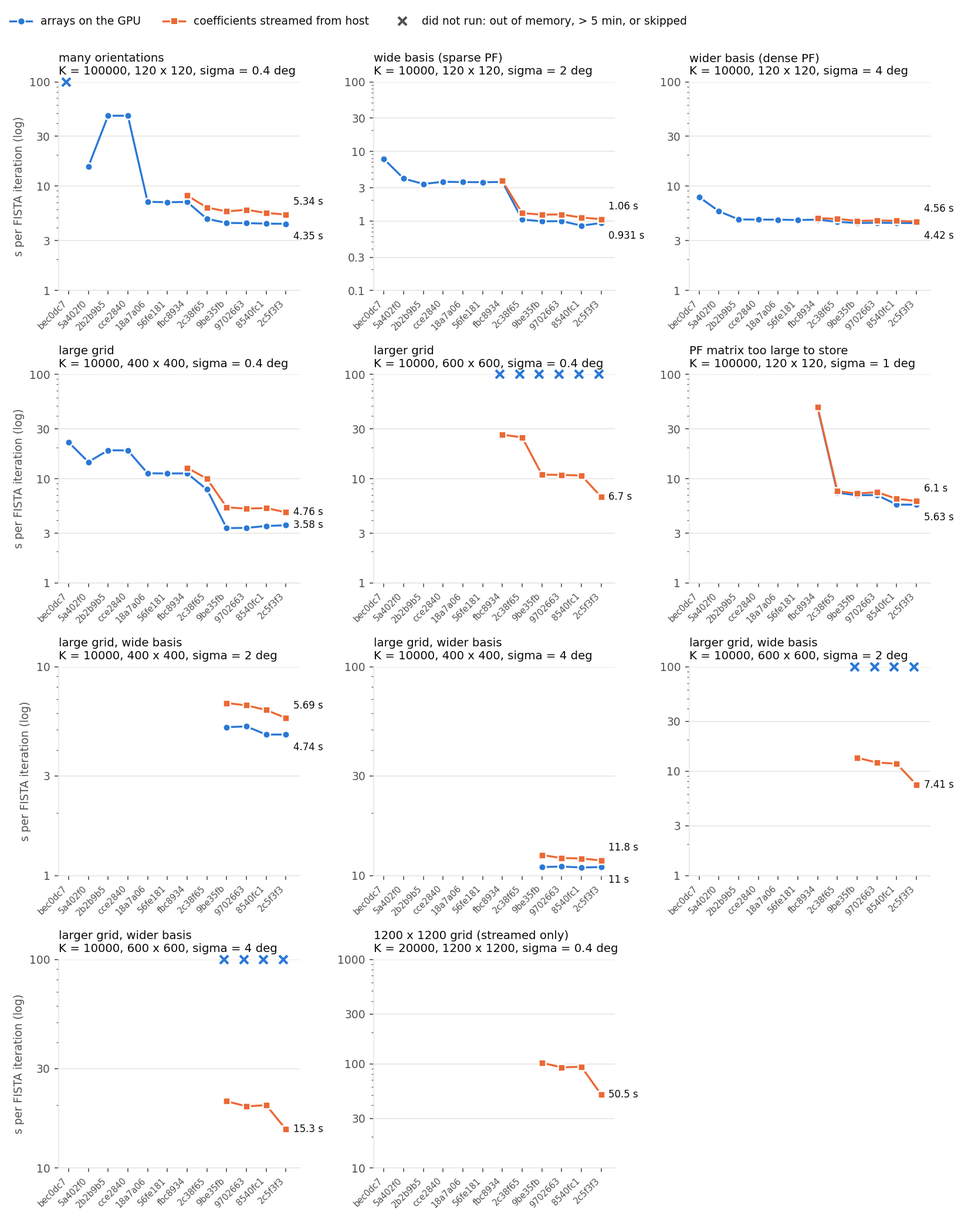
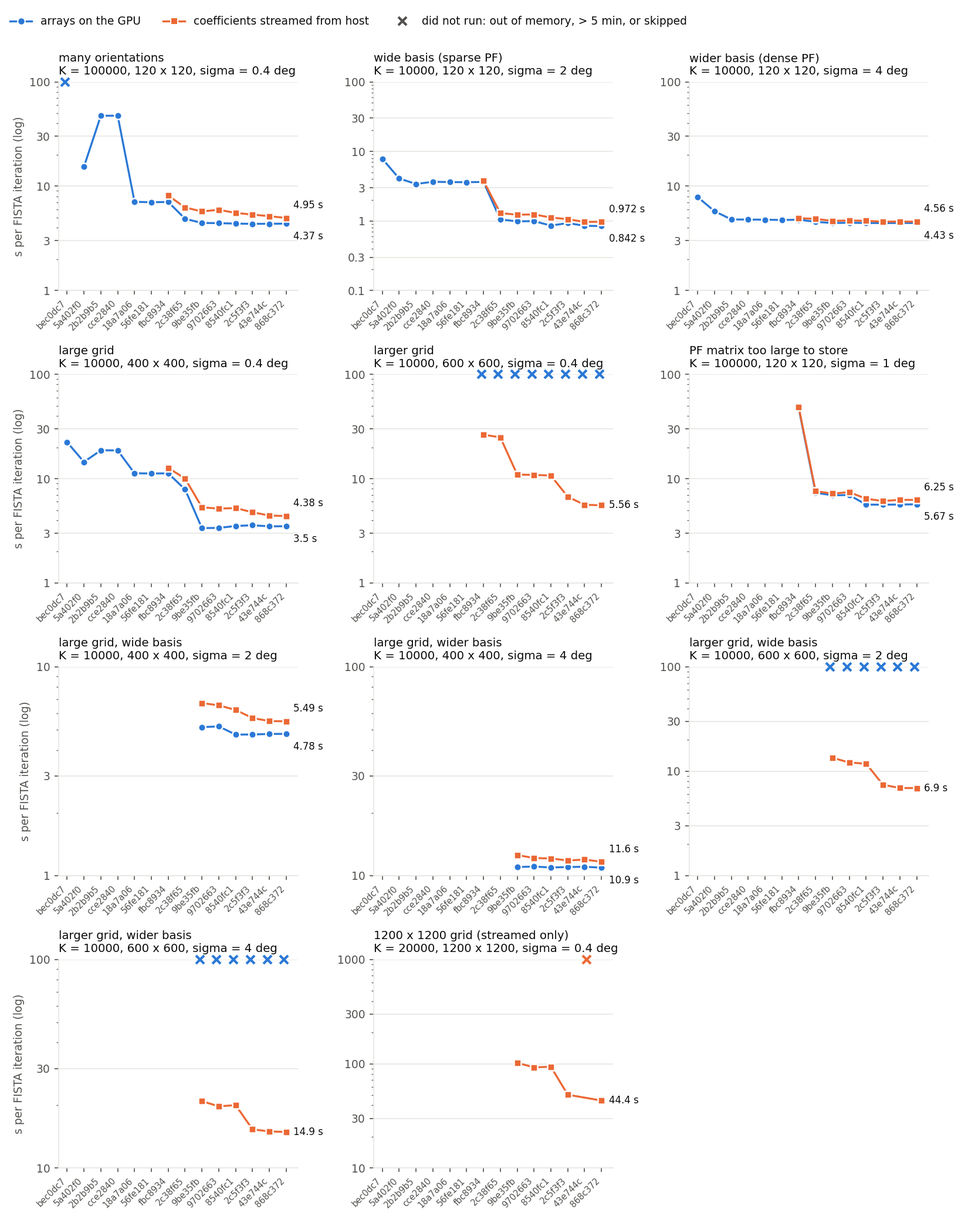
Benchmark results for 43e744c and 868c372 (+ 3e32127 at 1200 x 1200)

diff --git a/benchmarks/report.py b/benchmarks/report.py
@@ -27,6 +27,10 @@ LABELS = {
     "fbc8934": "NumPy API, (K, Ny, Nx) layout",
     "2c38f65": "sparse PF matrix generated directly, faster sparse products, store what fits, "
                "Radon in slices, larger batches",
+    "868c372": "FISTA (GPU arrays and streamed): next forward pass inside the adjoint pass; fused residual/norm/clip; "
+               "PF forward skips empty rows (iterates unchanged)",
+    "43e744c": "streamed FISTA: next forward pass inside the adjoint pass; fused residual/norm/clip; PF forward "
+               "skips empty rows (iterates unchanged)",
     "2c5f3f3": "Fourier-slice projector (projector=\"fft\"), the default above 400 x 400 pixels (results differ by ~1 %)",
     "8540fc1": "defaults: PF Gaussians cut at 3 sigma (was 3.46; results change by ~1 %), parallel random start of "
                "the streamed power iteration",
@@ -38,7 +42,7 @@ LABELS = {
 
 # results of a version listed here count as results of the version it maps to: the same code for
 # what is measured (versions with an identical src/ tree are merged automatically)
-SAME_CODE = {"81d313a": "9be35fb"}  # 81d313a only adds iteration times to the FISTA stats
+SAME_CODE = {"81d313a": "9be35fb", "3e32127": "868c372"}  # 81d313a only adds iteration times to the FISTA stats
 
 SWEEPS = [  # sweep, varied parameter, label, unit
     ("K", "K", "orientations K", ""),

diff --git a/benchmarks/RESULTS.md b/benchmarks/RESULTS.md
@@ -10,6 +10,8 @@ Speed and peak memory of diffractom's texture-tomography reconstruction across v
 
 | version | date | what changed |
 |---|---|---|
+| `868c372` | 2026-10-02 | FISTA (GPU arrays and streamed): next forward pass inside the adjoint pass; fused residual/norm/clip; PF forward skips empty rows (iterates unchanged) |
+| `43e744c` | 2026-10-02 | streamed FISTA: next forward pass inside the adjoint pass; fused residual/norm/clip; PF forward skips empty rows (iterates unchanged) |
 | `2c5f3f3` | 2026-10-02 | Fourier-slice projector (projector="fft"), the default above 400 x 400 pixels (results differ by ~1 %) |
 | `8540fc1` | 2026-10-02 | defaults: PF Gaussians cut at 3 sigma (was 3.46; results change by ~1 %), parallel random start of the streamed power iteration |
 | `9702663` | 2026-10-02 | streamed power iteration on all cores, streaming buffers kept with the operator; sparse up to 30 % fill when stored (results unchanged) |
@@ -23,47 +25,47 @@ Speed and peak memory of diffractom's texture-tomography reconstruction across v
 | `5a402f0` | 2026-09-28 | sparse PF matrix (`pf_mode="auto"`) |
 | `bec0dc7` | 2026-09-28 | before the speed-ups: dense PF matrix only |
 
-## Newest (`2c5f3f3`) against the version before it (`8540fc1`)
+## Newest (`868c372`) against the version before it (`43e744c`)
 
 Seconds per FISTA iteration, steady state (without the first iteration, which includes the setup) where both versions recorded it (marked s), else the average of the two iterations; speed-up = previous / newest (below 1: slower). Single short runs: differences within about 10 % are noise.
 
 | case | mode | previous | newest | speed-up |
 |---|---|---:|---:|---:|
-| K = 1000, 120 x 120, sigma = 0.4 | gpu | 0.0732 | 0.0732 | 1.00x s |
-| K = 3000, 120 x 120, sigma = 0.4 | gpu | 0.149 | 0.147 | 1.01x s |
-| K = 10000, 64 x 64, sigma = 0.4 | gpu | 0.194 | 0.194 | 1.00x s |
-| K = 10000, 120 x 120, sigma = 0.4 | gpu | 0.449 | 0.447 | 1.00x s |
-| K = 10000, 120 x 120, sigma = 1 | gpu | 0.69 | 0.51 | 1.35x s |
-| K = 10000, 120 x 120, sigma = 2 | gpu | 0.824 | 0.955 | **0.86x s** (slower) |
-| K = 10000, 120 x 120, sigma = 4 | gpu | 4.42 | 4.41 | 1.00x s |
-| K = 10000, 200 x 200, sigma = 0.4 | gpu | 1.04 | 1.04 | 1.00x s |
-| K = 10000, 400 x 400, sigma = 0.4 | gpu | 3.49 | 3.59 | 0.97x s |
-| K = 10000, 400 x 400, sigma = 2 | gpu | 4.73 | 4.74 | 1.00x s |
-| K = 10000, 400 x 400, sigma = 4 | gpu | 11.0 | 11.0 | 1.00x s |
+| K = 1000, 120 x 120, sigma = 0.4 | gpu | 0.0685 | 0.0504 | 1.36x s |
+| K = 3000, 120 x 120, sigma = 0.4 | gpu | 0.143 | 0.105 | 1.37x s |
+| K = 10000, 64 x 64, sigma = 0.4 | gpu | 0.192 | 0.139 | 1.38x s |
+| K = 10000, 120 x 120, sigma = 0.4 | gpu | 0.443 | 0.326 | 1.36x s |
+| K = 10000, 120 x 120, sigma = 1 | gpu | 0.506 | 0.375 | 1.35x s |
+| K = 10000, 120 x 120, sigma = 2 | gpu | 0.829 | 0.6 | 1.38x s |
+| K = 10000, 120 x 120, sigma = 4 | gpu | 4.44 | 3.32 | 1.34x s |
+| K = 10000, 200 x 200, sigma = 0.4 | gpu | 1.03 | 0.755 | 1.36x s |
+| K = 10000, 400 x 400, sigma = 0.4 | gpu | 3.47 | 2.45 | 1.42x s |
+| K = 10000, 400 x 400, sigma = 2 | gpu | 4.77 | 3.45 | 1.38x s |
+| K = 10000, 400 x 400, sigma = 4 | gpu | 11.1 | 8.13 | 1.36x s |
 | K = 10000, 600 x 600, sigma = 0.4 | gpu | *array > largest GPU buffer* | *array > largest GPU buffer* |  |
 | K = 10000, 600 x 600, sigma = 2 | gpu | *array > largest GPU buffer* | *array > largest GPU buffer* |  |
 | K = 10000, 600 x 600, sigma = 4 | gpu | *skipped* | *skipped* |  |
-| K = 30000, 120 x 120, sigma = 0.4 | gpu | 1.31 | 1.31 | 1.00x s |
-| K = 100000, 120 x 120, sigma = 0.4 | gpu | 4.29 | 4.3 | 1.00x s |
-| K = 100000, 120 x 120, sigma = 1 | gpu | 5.57 | 5.57 | 1.00x s |
-| K = 1000, 120 x 120, sigma = 0.4 | stream | 0.0844 | 0.0812 | 1.04x s |
-| K = 3000, 120 x 120, sigma = 0.4 | stream | 0.16 | 0.159 | 1.00x s |
-| K = 10000, 64 x 64, sigma = 0.4 | stream | 0.201 | 0.202 | 1.00x s |
-| K = 10000, 120 x 120, sigma = 0.4 | stream | 0.461 | 0.481 | 0.96x s |
-| K = 10000, 120 x 120, sigma = 1 | stream | 0.525 | 0.523 | 1.00x s |
-| K = 10000, 120 x 120, sigma = 2 | stream | 0.848 | 0.832 | 1.02x s |
-| K = 10000, 120 x 120, sigma = 4 | stream | 4.43 | 4.43 | 1.00x s |
-| K = 10000, 200 x 200, sigma = 0.4 | stream | 1.07 | 1.07 | 1.00x s |
-| K = 10000, 400 x 400, sigma = 0.4 | stream | 3.69 | 3.64 | 1.02x s |
-| K = 10000, 400 x 400, sigma = 2 | stream | 4.6 | 4.6 | 1.00x s |
-| K = 10000, 400 x 400, sigma = 4 | stream | 11.1 | 11.0 | 1.00x s |
-| K = 10000, 600 x 600, sigma = 0.4 | stream | 8.14 | 5.17 | 1.57x s |
-| K = 10000, 600 x 600, sigma = 2 | stream | 9.51 | 5.85 | 1.62x s |
-| K = 10000, 600 x 600, sigma = 4 | stream | 17.7 | 13.7 | 1.29x s |
-| K = 20000, 1200 x 1200, sigma = 0.4 | stream | 77.6 | 33.5 | 2.31x s |
-| K = 30000, 120 x 120, sigma = 0.4 | stream | 1.33 | 1.49 | **0.89x s** (slower) |
-| K = 100000, 120 x 120, sigma = 0.4 | stream | 4.43 | 4.35 | 1.02x s |
-| K = 100000, 120 x 120, sigma = 1 | stream | 5.47 | 5.43 | 1.01x s |
+| K = 30000, 120 x 120, sigma = 0.4 | gpu | 1.31 | 0.961 | 1.36x s |
+| K = 100000, 120 x 120, sigma = 0.4 | gpu | 4.3 | 3.14 | 1.37x s |
+| K = 100000, 120 x 120, sigma = 1 | gpu | 5.6 | 4.03 | 1.39x s |
+| K = 1000, 120 x 120, sigma = 0.4 | stream | 0.0583 | 0.0579 | 1.01x s |
+| K = 3000, 120 x 120, sigma = 0.4 | stream | 0.115 | 0.114 | 1.00x s |
+| K = 10000, 64 x 64, sigma = 0.4 | stream | 0.144 | 0.145 | 1.00x s |
+| K = 10000, 120 x 120, sigma = 0.4 | stream | 0.337 | 0.337 | 1.00x s |
+| K = 10000, 120 x 120, sigma = 1 | stream | 0.386 | 0.385 | 1.00x s |
+| K = 10000, 120 x 120, sigma = 2 | stream | 0.608 | 0.61 | 1.00x s |
+| K = 10000, 120 x 120, sigma = 4 | stream | 3.36 | 3.34 | 1.01x s |
+| K = 10000, 200 x 200, sigma = 0.4 | stream | 0.779 | 0.779 | 1.00x s |
+| K = 10000, 400 x 400, sigma = 0.4 | stream | 2.49 | 2.49 | 1.00x s |
+| K = 10000, 400 x 400, sigma = 2 | stream | 3.4 | 3.39 | 1.00x s |
+| K = 10000, 400 x 400, sigma = 4 | stream | 8.28 | 8.24 | 1.01x s |
+| K = 10000, 600 x 600, sigma = 0.4 | stream | 3.49 | 3.42 | 1.02x s |
+| K = 10000, 600 x 600, sigma = 2 | stream | 4.45 | 4.44 | 1.00x s |
+| K = 10000, 600 x 600, sigma = 4 | stream | 10.6 | 10.5 | 1.01x s |
+| K = 20000, 1200 x 1200, sigma = 0.4 | stream | *out of memory* | 44.4 |  |
+| K = 30000, 120 x 120, sigma = 0.4 | stream | 0.977 | 0.974 | 1.00x s |
+| K = 100000, 120 x 120, sigma = 0.4 | stream | 3.18 | 3.18 | 1.00x s |
+| K = 100000, 120 x 120, sigma = 1 | stream | 3.9 | 3.89 | 1.00x s |
 
 ## Every version on the base case
 
@@ -191,6 +193,69 @@ The time per iteration above includes a one-time setup in the first of the two F
 | `2c5f3f3` | K = 10000, 600 x 600, sigma = 2 | stream | 10.4 | 5.85 |
 | `2c5f3f3` | K = 10000, 600 x 600, sigma = 4 | stream | 18.4 | 13.7 |
 | `2c5f3f3` | K = 20000, 1200 x 1200, sigma = 0.4 | stream | 67.1 | 33.5 |
+| `43e744c` | K = 10000, 64 x 64, sigma = 0.4 | gpu | 0.195 | 0.192 |
+| `43e744c` | K = 10000, 64 x 64, sigma = 0.4 | stream | 0.462 | 0.144 |
+| `43e744c` | K = 1000, 120 x 120, sigma = 0.4 | gpu | 0.0714 | 0.0685 |
+| `43e744c` | K = 1000, 120 x 120, sigma = 0.4 | stream | 0.271 | 0.0583 |
+| `43e744c` | K = 3000, 120 x 120, sigma = 0.4 | gpu | 0.146 | 0.143 |
+| `43e744c` | K = 3000, 120 x 120, sigma = 0.4 | stream | 0.508 | 0.115 |
+| `43e744c` | K = 10000, 120 x 120, sigma = 0.4 | gpu | 0.45 | 0.443 |
+| `43e744c` | K = 10000, 120 x 120, sigma = 0.4 | stream | 1.04 | 0.337 |
+| `43e744c` | K = 10000, 120 x 120, sigma = 1 | gpu | 0.511 | 0.506 |
+| `43e744c` | K = 10000, 120 x 120, sigma = 1 | stream | 1.16 | 0.386 |
+| `43e744c` | K = 10000, 120 x 120, sigma = 2 | gpu | 0.829 | 0.829 |
+| `43e744c` | K = 10000, 120 x 120, sigma = 2 | stream | 1.61 | 0.608 |
+| `43e744c` | K = 10000, 120 x 120, sigma = 4 | gpu | 4.37 | 4.44 |
+| `43e744c` | K = 10000, 120 x 120, sigma = 4 | stream | 6.94 | 3.36 |
+| `43e744c` | K = 30000, 120 x 120, sigma = 0.4 | gpu | 1.33 | 1.31 |
+| `43e744c` | K = 30000, 120 x 120, sigma = 0.4 | stream | 2.98 | 0.977 |
+| `43e744c` | K = 100000, 120 x 120, sigma = 0.4 | gpu | 4.33 | 4.3 |
+| `43e744c` | K = 100000, 120 x 120, sigma = 0.4 | stream | 8.88 | 3.18 |
+| `43e744c` | K = 100000, 120 x 120, sigma = 1 | gpu | 5.6 | 5.6 |
+| `43e744c` | K = 100000, 120 x 120, sigma = 1 | stream | 10.8 | 3.9 |
+| `43e744c` | K = 10000, 200 x 200, sigma = 0.4 | gpu | 1.03 | 1.03 |
+| `43e744c` | K = 10000, 200 x 200, sigma = 0.4 | stream | 2.47 | 0.779 |
+| `43e744c` | K = 10000, 400 x 400, sigma = 0.4 | gpu | 3.47 | 3.47 |
+| `43e744c` | K = 10000, 400 x 400, sigma = 0.4 | stream | 8.21 | 2.49 |
+| `43e744c` | K = 10000, 400 x 400, sigma = 2 | gpu | 4.73 | 4.77 |
+| `43e744c` | K = 10000, 400 x 400, sigma = 2 | stream | 9.6 | 3.4 |
+| `43e744c` | K = 10000, 400 x 400, sigma = 4 | gpu | 10.9 | 11.1 |
+| `43e744c` | K = 10000, 400 x 400, sigma = 4 | stream | 19.1 | 8.28 |
+| `43e744c` | K = 10000, 600 x 600, sigma = 0.4 | stream | 9.76 | 3.49 |
+| `43e744c` | K = 10000, 600 x 600, sigma = 2 | stream | 11.7 | 4.45 |
+| `43e744c` | K = 10000, 600 x 600, sigma = 4 | stream | 23.7 | 10.6 |
+| `868c372` | K = 10000, 64 x 64, sigma = 0.4 | gpu | 0.3 | 0.139 |
+| `868c372` | K = 10000, 64 x 64, sigma = 0.4 | stream | 0.464 | 0.145 |
+| `868c372` | K = 1000, 120 x 120, sigma = 0.4 | gpu | 0.107 | 0.0504 |
+| `868c372` | K = 1000, 120 x 120, sigma = 0.4 | stream | 0.273 | 0.0579 |
+| `868c372` | K = 3000, 120 x 120, sigma = 0.4 | gpu | 0.224 | 0.105 |
+| `868c372` | K = 3000, 120 x 120, sigma = 0.4 | stream | 0.443 | 0.114 |
+| `868c372` | K = 10000, 120 x 120, sigma = 0.4 | gpu | 0.69 | 0.326 |
+| `868c372` | K = 10000, 120 x 120, sigma = 0.4 | stream | 1.07 | 0.337 |
+| `868c372` | K = 10000, 120 x 120, sigma = 1 | gpu | 0.779 | 0.375 |
+| `868c372` | K = 10000, 120 x 120, sigma = 1 | stream | 1.15 | 0.385 |
+| `868c372` | K = 10000, 120 x 120, sigma = 2 | gpu | 1.28 | 0.6 |
+| `868c372` | K = 10000, 120 x 120, sigma = 2 | stream | 1.63 | 0.61 |
+| `868c372` | K = 10000, 120 x 120, sigma = 4 | gpu | 6.58 | 3.32 |
+| `868c372` | K = 10000, 120 x 120, sigma = 4 | stream | 6.92 | 3.34 |
+| `868c372` | K = 30000, 120 x 120, sigma = 0.4 | gpu | 2.05 | 0.961 |
+| `868c372` | K = 30000, 120 x 120, sigma = 0.4 | stream | 2.64 | 0.974 |
+| `868c372` | K = 100000, 120 x 120, sigma = 0.4 | gpu | 6.71 | 3.14 |
+| `868c372` | K = 100000, 120 x 120, sigma = 0.4 | stream | 8.27 | 3.18 |
+| `868c372` | K = 100000, 120 x 120, sigma = 1 | gpu | 8.8 | 4.03 |
+| `868c372` | K = 100000, 120 x 120, sigma = 1 | stream | 10.7 | 3.89 |
+| `868c372` | K = 10000, 200 x 200, sigma = 0.4 | gpu | 1.59 | 0.755 |
+| `868c372` | K = 10000, 200 x 200, sigma = 0.4 | stream | 2.46 | 0.779 |
+| `868c372` | K = 10000, 400 x 400, sigma = 0.4 | gpu | 5.53 | 2.45 |
+| `868c372` | K = 10000, 400 x 400, sigma = 0.4 | stream | 8.05 | 2.49 |
+| `868c372` | K = 10000, 400 x 400, sigma = 2 | gpu | 7.36 | 3.45 |
+| `868c372` | K = 10000, 400 x 400, sigma = 2 | stream | 9.59 | 3.39 |
+| `868c372` | K = 10000, 400 x 400, sigma = 4 | gpu | 16.4 | 8.13 |
+| `868c372` | K = 10000, 400 x 400, sigma = 4 | stream | 18.4 | 8.24 |
+| `868c372` | K = 10000, 600 x 600, sigma = 0.4 | stream | 9.72 | 3.42 |
+| `868c372` | K = 10000, 600 x 600, sigma = 2 | stream | 11.7 | 4.44 |
+| `868c372` | K = 10000, 600 x 600, sigma = 4 | stream | 23.6 | 10.5 |
+| `868c372` | K = 20000, 1200 x 1200, sigma = 0.4 | stream | 55.9 | 32.7 |
 
 ## Arrays on the GPU
 
@@ -205,11 +270,13 @@ Seconds per FISTA iteration; the fastest version per column in bold; * the base 
 
 | version | 1000 | 3000 | 10000 * | 30000 | 100000 |
 |---|---:|---:|---:|---:|---:|
-| `2c5f3f3` | 0.0895 | **0.164** | **0.47** | **1.35** | **4.35** |
+| `868c372` | **0.0807** | **0.159** | 0.471 | 1.35 | 4.37 |
+| `43e744c` | 0.0843 | 0.161 | **0.467** | **1.34** | 4.35 |
+| `2c5f3f3` | 0.0895 | 0.164 | 0.47 | 1.35 | **4.35** |
 | `8540fc1` | 0.0973 | 0.187 | 0.482 | 1.36 | 4.37 |
 | `9702663` | 0.109 | 0.178 | 0.488 | 1.51 | 4.42 |
 | `9be35fb` | 0.0969 | 0.175 | 0.473 | 1.36 | 4.44 |
-| `2c38f65` | **0.0839** | 0.272 | 0.523 | 1.48 | 4.86 |
+| `2c38f65` | 0.0839 | 0.272 | 0.523 | 1.48 | 4.86 |
 | `fbc8934` | 0.118 | 0.244 | 0.733 | 2.07 | 7.05 |
 | `56fe181` | 0.116 | 0.25 | 0.736 | 2.07 | 7.01 |
 | `18a7a06` | 0.116 | 0.319 | 0.737 | 2.09 | 7.07 |
@@ -222,7 +289,9 @@ Seconds per FISTA iteration; the fastest version per column in bold; * the base 
 
 | version | 64 | 120 * | 200 | 400 |
 |---|---:|---:|---:|---:|
-| `2c5f3f3` | **0.214** | **0.47** | **1.06** | 3.58 |
+| `868c372` | **0.211** | 0.471 | 1.05 | 3.5 |
+| `43e744c` | 0.215 | **0.467** | **1.05** | 3.49 |
+| `2c5f3f3` | 0.214 | 0.47 | 1.06 | 3.58 |
 | `8540fc1` | 0.227 | 0.482 | 1.07 | 3.52 |
 | `9702663` | 0.234 | 0.488 | 1.07 | 3.37 |
 | `9be35fb` | 0.228 | 0.473 | 1.07 | **3.36** |
@@ -239,8 +308,10 @@ Seconds per FISTA iteration; the fastest version per column in bold; * the base 
 
 | version | 0.4 deg * | 1 deg | 2 deg | 4 deg |
 |---|---:|---:|---:|---:|
-| `2c5f3f3` | **0.47** | **0.527** | 0.931 | **4.42** |
-| `8540fc1` | 0.482 | 0.64 | **0.855** | 4.43 |
+| `868c372` | 0.471 | **0.524** | **0.842** | 4.43 |
+| `43e744c` | **0.467** | 0.528 | 0.85 | 4.43 |
+| `2c5f3f3` | 0.47 | 0.527 | 0.931 | **4.42** |
+| `8540fc1` | 0.482 | 0.64 | 0.855 | 4.43 |
 | `9702663` | 0.488 | 0.575 | 0.992 | 4.45 |
 | `9be35fb` | 0.473 | 0.57 | 0.985 | 4.43 |
 | `2c38f65` | 0.523 | 0.613 | 1.05 | 4.55 |
@@ -265,8 +336,10 @@ Seconds per FISTA iteration; the fastest version per column in bold; * the base 
 
 | version | 1000 | 3000 | 10000 * | 30000 | 100000 |
 |---|---:|---:|---:|---:|---:|
-| `2c5f3f3` | **0.173** | **0.268** | **0.661** | 1.86 | **5.34** |
-| `8540fc1` | 0.28 | 0.3 | 0.728 | **1.84** | 5.53 |
+| `868c372` | 0.146 | **0.244** | 0.603 | **1.57** | **4.95** |
+| `43e744c` | **0.146** | 0.262 | **0.593** | 1.68 | 5.15 |
+| `2c5f3f3` | 0.173 | 0.268 | 0.661 | 1.86 | 5.34 |
+| `8540fc1` | 0.28 | 0.3 | 0.728 | 1.84 | 5.53 |
 | `9702663` | 0.224 | 0.322 | 0.721 | 1.97 | 5.93 |
 | `9be35fb` | 0.271 | 0.439 | 0.836 | 1.97 | 5.72 |
 | `2c38f65` | 0.372 | 0.496 | 0.891 | 2.06 | 6.24 |
@@ -276,7 +349,9 @@ Seconds per FISTA iteration; the fastest version per column in bold; * the base 
 
 | version | 64 | 120 * | 200 | 400 |
 |---|---:|---:|---:|---:|
-| `2c5f3f3` | **0.297** | **0.661** | **1.5** | **4.76** |
+| `868c372` | 0.27 | 0.603 | **1.36** | **4.38** |
+| `43e744c` | **0.269** | **0.593** | 1.37 | 4.43 |
+| `2c5f3f3` | 0.297 | 0.661 | 1.5 | 4.76 |
 | `8540fc1` | 0.363 | 0.728 | 1.54 | 5.23 |
 | `9702663` | 0.352 | 0.721 | 1.83 | 5.16 |
 | `9be35fb` | 0.39 | 0.836 | 1.94 | 5.31 |
@@ -287,7 +362,9 @@ Seconds per FISTA iteration; the fastest version per column in bold; * the base 
 
 | version | 0.4 deg * | 1 deg | 2 deg | 4 deg |
 |---|---:|---:|---:|---:|
-| `2c5f3f3` | **0.661** | **0.702** | **1.06** | **4.56** |
+| `868c372` | 0.603 | **0.664** | 0.972 | **4.56** |
+| `43e744c` | **0.593** | 0.668 | **0.965** | 4.58 |
+| `2c5f3f3` | 0.661 | 0.702 | 1.06 | 4.56 |
 | `8540fc1` | 0.728 | 0.752 | 1.12 | 4.65 |
 | `9702663` | 0.721 | 0.828 | 1.24 | 4.68 |
 | `9be35fb` | 0.836 | 0.889 | 1.23 | 4.64 |
@@ -305,6 +382,8 @@ Seconds per FISTA iteration; the fastest version per column in bold; * the base 
 
 | version | 1000 | 3000 | 10000 * | 30000 | 100000 |
 |---|---:|---:|---:|---:|---:|
+| `868c372` | 3.0 | 3.4 | 4.6 | **8.6** | **23.5** |
+| `43e744c` | **2.2** | **2.7** | **4.3** | **8.6** | **23.5** |
 | `2c5f3f3` | **2.2** | **2.7** | **4.3** | **8.6** | **23.5** |
 | `8540fc1` | **2.2** | **2.7** | **4.3** | **8.6** | **23.5** |
 | `9702663` | 2.2 | 2.8 | 4.4 | 9.0 | 25.1 |
@@ -322,6 +401,8 @@ Seconds per FISTA iteration; the fastest version per column in bold; * the base 
 
 | version | 1000 | 3000 | 10000 * | 30000 | 100000 |
 |---|---:|---:|---:|---:|---:|
+| `868c372` | 1.3 | 1.7 | 2.8 | 6.2 | 17.8 |
+| `43e744c` | 1.3 | 1.7 | 2.8 | 6.2 | 17.8 |
 | `2c5f3f3` | 1.3 | 1.7 | 2.8 | 6.1 | 17.8 |
 | `8540fc1` | 1.3 | 1.7 | 2.8 | 6.1 | 17.8 |
 | `9702663` | **1.3** | 1.7 | **2.8** | 6.1 | 17.8 |
@@ -339,6 +420,8 @@ Seconds per FISTA iteration; the fastest version per column in bold; * the base 
 
 | version | 1000 | 3000 | 10000 * | 30000 | 100000 |
 |---|---:|---:|---:|---:|---:|
+| `868c372` | 3.1 | 3.6 | 4.2 | 5.3 | 9.0 |
+| `43e744c` | 3.1 | 3.6 | 4.2 | 5.3 | 9.0 |
 | `2c5f3f3` | **2.3** | 2.8 | 3.4 | **4.5** | **8.2** |
 | `8540fc1` | **2.3** | 2.8 | 3.4 | **4.5** | **8.2** |
 | `9702663` | 2.3 | 2.8 | 3.6 | 4.9 | 9.7 |
@@ -350,6 +433,8 @@ Seconds per FISTA iteration; the fastest version per column in bold; * the base 
 
 | version | 1000 | 3000 | 10000 * | 30000 | 100000 |
 |---|---:|---:|---:|---:|---:|
+| `868c372` | 2.1 | 2.4 | 4.8 | 7.4 | 14.8 |
+| `43e744c` | 2.1 | 2.4 | 4.8 | 7.3 | 14.8 |
 | `2c5f3f3` | 2.1 | 2.4 | 4.8 | 7.4 | 14.8 |
 | `8540fc1` | 2.1 | 2.4 | 4.8 | 7.4 | 14.8 |
 | `9702663` | 2.1 | 2.4 | 4.7 | 7.0 | 14.8 |
@@ -363,6 +448,8 @@ Seconds per FISTA iteration (and how the PF matrix was applied: dense; sparse wi
 
 | version | K = 10000, 400 x 400, sigma = 2, gpu | K = 10000, 400 x 400, sigma = 2, stream | K = 10000, 400 x 400, sigma = 4, gpu | K = 10000, 400 x 400, sigma = 4, stream | K = 10000, 600 x 600, sigma = 0.4, gpu | K = 10000, 600 x 600, sigma = 0.4, stream | K = 10000, 600 x 600, sigma = 2, gpu | K = 10000, 600 x 600, sigma = 2, stream | K = 10000, 600 x 600, sigma = 4, gpu | K = 10000, 600 x 600, sigma = 4, stream | K = 20000, 1200 x 1200, sigma = 0.4, gpu | K = 20000, 1200 x 1200, sigma = 0.4, stream | K = 100000, 120 x 120, sigma = 1, gpu | K = 100000, 120 x 120, sigma = 1, stream |
 |---|---:|---:|---:|---:|---:|---:|---:|---:|---:|---:|---:|---:|---:|---:|
+| `868c372` | 4.78 (sparse, adjoint) | 5.49 (sparse, both) | 10.9 (dense) | 11.6 (dense) | *array > largest GPU buffer* | 5.56 (sparse, both) | *array > largest GPU buffer* | 6.9 (sparse, both) | *skipped* | 14.9 (dense) |  | 44.4 (sparse, both) | 5.67 (generated, adjoint, 92 of 98 batches) | 6.25 (sparse, adjoint) |
+| `43e744c` | 4.77 (sparse, adjoint) | 5.5 (sparse, both) | 11.0 (dense) | 11.9 (dense) | *array > largest GPU buffer* | 5.62 (sparse, both) | *array > largest GPU buffer* | 6.9 (sparse, both) | *skipped* | 15.0 (dense) |  | *out of memory* | 5.65 (generated, adjoint, 92 of 98 batches) | 6.27 (sparse, adjoint) |
 | `2c5f3f3` | 4.74 (sparse, adjoint) | 5.69 (sparse, both) | 11.0 (dense) | 11.8 (dense) | *array > largest GPU buffer* | 6.7 (sparse, both) | *array > largest GPU buffer* | 7.41 (sparse, both) | *skipped* | 15.3 (dense) |  | 50.5 (sparse, both) | 5.63 (generated, adjoint, 92 of 98 batches) | 6.1 (sparse, adjoint) |
 | `8540fc1` | 4.74 (sparse, adjoint) | 6.22 (sparse, both) | 10.9 (dense) | 12.1 (dense) | *array > largest GPU buffer* | 10.7 (sparse, both) | *array > largest GPU buffer* | 11.8 (sparse, both) | *skipped* | 20.0 (dense) |  | 93.6 (sparse, both) | 5.64 (generated, adjoint, 92 of 98 batches) | 6.42 (sparse, adjoint) |
 | `9702663` | 5.18 (sparse, adjoint) | 6.55 (sparse, both) | 11.0 (dense) | 12.1 (dense) | *array > largest GPU buffer* | 10.9 (sparse, both) | *array > largest GPU buffer* | 12.1 (sparse, both) | *skipped* | 19.8 (dense) |  | 92.4 (sparse, both) | 6.96 (generated, adjoint, 69 of 98 batches) | 7.42 (sparse, adjoint) |
@@ -376,6 +463,76 @@ Seconds per FISTA iteration (and how the PF matrix was applied: dense; sparse wi
 
 | version | mode | K | N | sigma | status | PF | build (s) | forward (s) | adjoint (s) | FISTA / it (s) | GPU (GiB) | host (GiB) |
 |---|---|---:|---:|---:|---|---|---:|---:|---:|---:|---:|---:|
+| `868c372` | gpu | 1000 | 120 | 0.4 | ok | sparse, both | 1.46 | 0.0585 | 0.0271 | 0.0807 | 3.01 | 1.34 |
+| `868c372` | gpu | 3000 | 120 | 0.4 | ok | sparse, both | 1.66 | 0.102 | 0.0582 | 0.159 | 3.43 | 1.68 |
+| `868c372` | gpu | 10000 | 64 | 0.4 | ok | sparse, both | 1.39 | 0.124 | 0.0815 | 0.211 | 2.54 | 1.3 |
+| `868c372` | gpu | 10000 | 120 | 0.4 | ok | sparse, both | 1.52 | 0.262 | 0.193 | 0.471 | 4.61 | 2.83 |
+| `868c372` | gpu | 10000 | 120 | 1 | ok | sparse, both | 1.75 | 0.288 | 0.228 | 0.524 | 6.7 | 2.84 |
+| `868c372` | gpu | 10000 | 120 | 2 | ok | sparse, both | 2.41 | 0.476 | 0.361 | 0.842 | 14.1 | 2.83 |
+| `868c372` | gpu | 10000 | 120 | 4 | ok | dense | 1.87 | 2.39 | 2.2 | 4.43 | 5.89 | 2.84 |
+| `868c372` | gpu | 10000 | 200 | 0.4 | ok | sparse, both | 1.41 | 0.568 | 0.451 | 1.05 | 8.44 | 6.24 |
+| `868c372` | gpu | 10000 | 400 | 0.4 | ok | sparse, both | 1.67 | 2.01 | 1.32 | 3.5 | 24.8 | 21.0 |
+| `868c372` | gpu | 10000 | 400 | 2 | ok | sparse, adjoint | 2.1 | 2.56 | 2.04 | 4.78 | 29.6 | 21.0 |
+| `868c372` | gpu | 10000 | 400 | 4 | ok | dense | 1.23 | 5.49 | 5.23 | 10.9 | 25.9 | 21.0 |
+| `868c372` | gpu | 10000 | 600 | 0.4 | oom | generated, none | 2.47 |  |  |  | 0.312 | 4.53 |
+| `868c372` | gpu | 10000 | 600 | 2 | oom | generated, none | 2.81 |  |  |  | 0.312 | 4.53 |
+| `868c372` | gpu | 10000 | 600 | 4 | skipped |  |  |  |  |  |  |  |
+| `868c372` | gpu | 30000 | 120 | 0.4 | ok | sparse, both | 2.59 | 0.737 | 0.574 | 1.35 | 8.56 | 6.15 |
+| `868c372` | gpu | 100000 | 120 | 0.4 | ok | sparse, both | 5.36 | 2.34 | 1.89 | 4.37 | 23.5 | 17.8 |
+| `868c372` | gpu | 100000 | 120 | 1 | ok | generated, adjoint, 92 of 98 batches | 6.74 | 3.15 | 2.35 | 5.67 | 31.5 | 17.8 |
+| `868c372` | stream | 1000 | 120 | 0.4 | ok | sparse, both | 1.22 | 0.529 | 0.161 | 0.146 | 3.11 | 2.13 |
+| `868c372` | stream | 3000 | 120 | 0.4 | ok | sparse, both | 2.58 | 0.662 | 0.195 | 0.244 | 3.6 | 2.44 |
+| `868c372` | stream | 10000 | 64 | 0.4 | ok | sparse, both | 2.96 | 0.392 | 0.16 | 0.27 | 2.42 | 1.84 |
+| `868c372` | stream | 10000 | 120 | 0.4 | ok | sparse, both | 1.98 | 0.875 | 0.328 | 0.603 | 4.21 | 4.85 |
+| `868c372` | stream | 10000 | 120 | 1 | ok | sparse, both | 1.69 | 0.908 | 0.364 | 0.664 | 6.31 | 4.85 |
+| `868c372` | stream | 10000 | 120 | 2 | ok | sparse, both | 3.35 | 1 | 0.498 | 0.972 | 13.3 | 4.61 |
+| `868c372` | stream | 10000 | 120 | 4 | ok | dense | 1.3 | 2.92 | 2.33 | 4.56 | 5.03 | 4.54 |
+| `868c372` | stream | 10000 | 200 | 0.4 | ok | sparse, both | 1.55 | 2.41 | 0.674 | 1.36 | 7.31 | 8.15 |
+| `868c372` | stream | 10000 | 400 | 0.4 | ok | sparse, both | 1.54 | 4.51 | 1.71 | 4.38 | 13.3 | 19.8 |
+| `868c372` | stream | 10000 | 400 | 2 | ok | sparse, both | 2.24 | 3.82 | 2.4 | 5.49 | 21.5 | 18.9 |
+| `868c372` | stream | 10000 | 400 | 4 | ok | dense | 1.37 | 6.85 | 5.59 | 11.6 | 13.1 | 18.9 |
+| `868c372` | stream | 10000 | 600 | 0.4 | ok | sparse, both | 2.45 | 4.38 | 2.53 | 5.56 | 20.3 | 36.9 |
+| `868c372` | stream | 10000 | 600 | 2 | ok | sparse, both | 2.85 | 5.33 | 3.5 | 6.9 | 29.8 | 36.8 |
+| `868c372` | stream | 10000 | 600 | 4 | ok | dense | 2.19 | 9.17 | 7.52 | 14.9 | 21.4 | 36.9 |
+| `868c372` | stream | 20000 | 1200 | 0.4 | ok | sparse, both | 5.02 | 19.5 | 11.8 | 44.4 | 43.2 | 237.9 |
+| `868c372` | stream | 30000 | 120 | 0.4 | ok | sparse, both | 3.17 | 1.35 | 0.711 | 1.57 | 5.28 | 7.36 |
+| `868c372` | stream | 100000 | 120 | 0.4 | ok | sparse, both | 5.14 | 2.79 | 2 | 4.95 | 8.98 | 14.8 |
+| `868c372` | stream | 100000 | 120 | 1 | ok | sparse, adjoint | 6.78 | 3.52 | 2.36 | 6.25 | 17.1 | 14.8 |
+| `43e744c` | gpu | 1000 | 120 | 0.4 | ok | sparse, both | 1.34 | 0.0613 | 0.027 | 0.0843 | 2.23 | 1.34 |
+| `43e744c` | gpu | 3000 | 120 | 0.4 | ok | sparse, both | 1.47 | 0.103 | 0.0586 | 0.161 | 2.74 | 1.68 |
+| `43e744c` | gpu | 10000 | 64 | 0.4 | ok | sparse, both | 1.53 | 0.127 | 0.0814 | 0.215 | 2.25 | 1.3 |
+| `43e744c` | gpu | 10000 | 120 | 0.4 | ok | sparse, both | 1.53 | 0.262 | 0.193 | 0.467 | 4.27 | 2.84 |
+| `43e744c` | gpu | 10000 | 120 | 1 | ok | sparse, both | 1.71 | 0.292 | 0.228 | 0.528 | 6.37 | 2.83 |
+| `43e744c` | gpu | 10000 | 120 | 2 | ok | sparse, both | 2.21 | 0.477 | 0.362 | 0.85 | 13.8 | 2.83 |
+| `43e744c` | gpu | 10000 | 120 | 4 | ok | dense | 1.31 | 2.18 | 2.2 | 4.43 | 5.6 | 2.84 |
+| `43e744c` | gpu | 10000 | 200 | 0.4 | ok | sparse, both | 1.51 | 0.568 | 0.45 | 1.05 | 8.42 | 6.24 |
+| `43e744c` | gpu | 10000 | 400 | 0.4 | ok | sparse, both | 1.81 | 2.01 | 1.32 | 3.49 | 24.8 | 21.0 |
+| `43e744c` | gpu | 10000 | 400 | 2 | ok | sparse, adjoint | 2.02 | 2.57 | 2.05 | 4.77 | 29.6 | 21.0 |
+| `43e744c` | gpu | 10000 | 400 | 4 | ok | dense | 1.61 | 5.5 | 5.25 | 11.0 | 25.9 | 21.0 |
+| `43e744c` | gpu | 10000 | 600 | 0.4 | oom | generated, none | 2.62 |  |  |  | 0.312 | 4.53 |
+| `43e744c` | gpu | 10000 | 600 | 2 | oom | generated, none | 2.51 |  |  |  | 0.617 | 4.53 |
+| `43e744c` | gpu | 10000 | 600 | 4 | skipped |  |  |  |  |  |  |  |
+| `43e744c` | gpu | 30000 | 120 | 0.4 | ok | sparse, both | 2.77 | 0.74 | 0.571 | 1.34 | 8.56 | 6.15 |
+| `43e744c` | gpu | 100000 | 120 | 0.4 | ok | sparse, both | 5.65 | 2.34 | 1.88 | 4.35 | 23.5 | 17.8 |
+| `43e744c` | gpu | 100000 | 120 | 1 | ok | generated, adjoint, 92 of 98 batches | 6.6 | 3.15 | 2.36 | 5.65 | 31.5 | 17.8 |
+| `43e744c` | stream | 1000 | 120 | 0.4 | ok | sparse, both | 1.15 | 0.426 | 0.153 | 0.146 | 3.11 | 2.12 |
+| `43e744c` | stream | 3000 | 120 | 0.4 | ok | sparse, both | 1.44 | 0.53 | 0.195 | 0.262 | 3.6 | 2.41 |
+| `43e744c` | stream | 10000 | 64 | 0.4 | ok | sparse, both | 1.57 | 0.37 | 0.161 | 0.269 | 2.42 | 1.84 |
+| `43e744c` | stream | 10000 | 120 | 0.4 | ok | sparse, both | 1.53 | 0.814 | 0.337 | 0.593 | 4.21 | 4.85 |
+| `43e744c` | stream | 10000 | 120 | 1 | ok | sparse, both | 1.88 | 0.808 | 0.358 | 0.668 | 6.31 | 4.85 |
+| `43e744c` | stream | 10000 | 120 | 2 | ok | sparse, both | 2.33 | 0.973 | 0.493 | 0.965 | 13.3 | 4.62 |
+| `43e744c` | stream | 10000 | 120 | 4 | ok | dense | 1.33 | 2.63 | 2.32 | 4.58 | 5.03 | 4.54 |
+| `43e744c` | stream | 10000 | 200 | 0.4 | ok | sparse, both | 1.52 | 1.78 | 0.673 | 1.37 | 7.31 | 8.15 |
+| `43e744c` | stream | 10000 | 400 | 0.4 | ok | sparse, both | 1.94 | 4.5 | 1.71 | 4.43 | 13.3 | 19.7 |
+| `43e744c` | stream | 10000 | 400 | 2 | ok | sparse, both | 2.42 | 4.17 | 2.41 | 5.5 | 21.5 | 18.9 |
+| `43e744c` | stream | 10000 | 400 | 4 | ok | dense | 1.71 | 6.87 | 5.78 | 11.9 | 13.1 | 18.9 |
+| `43e744c` | stream | 10000 | 600 | 0.4 | ok | sparse, both | 2.61 | 4.41 | 2.54 | 5.62 | 20.3 | 36.9 |
+| `43e744c` | stream | 10000 | 600 | 2 | ok | sparse, both | 3.39 | 4.97 | 3.5 | 6.9 | 29.8 | 36.9 |
+| `43e744c` | stream | 10000 | 600 | 4 | ok | dense | 2.81 | 8.91 | 7.58 | 15.0 | 21.4 | 36.9 |
+| `43e744c` | stream | 20000 | 1200 | 0.4 | oom | sparse, both | 4.46 | 19.1 | 11.8 |  | 41.6 | 238.0 |
+| `43e744c` | stream | 30000 | 120 | 0.4 | ok | sparse, both | 2.65 | 1.23 | 0.705 | 1.68 | 5.28 | 7.3 |
+| `43e744c` | stream | 100000 | 120 | 0.4 | ok | sparse, both | 5.6 | 2.95 | 2.03 | 5.15 | 8.98 | 14.8 |
+| `43e744c` | stream | 100000 | 120 | 1 | ok | sparse, adjoint | 6.86 | 3.59 | 2.38 | 6.27 | 17.1 | 14.8 |
 | `2c5f3f3` | gpu | 1000 | 120 | 0.4 | ok | sparse, both | 1.18 | 0.0594 | 0.0271 | 0.0895 | 2.23 | 1.34 |
 | `2c5f3f3` | gpu | 3000 | 120 | 0.4 | ok | sparse, both | 1.25 | 0.103 | 0.0585 | 0.164 | 2.74 | 1.68 |
 | `2c5f3f3` | gpu | 10000 | 64 | 0.4 | ok | sparse, both | 1.56 | 0.127 | 0.0815 | 0.214 | 2.25 | 1.3 |
@@ -648,4 +805,4 @@ Seconds per FISTA iteration (and how the PF matrix was applied: dense; sparse wi
 
 </details>
 
-Results files: `2026-10-02_1026_A40_n-62-18-4.jsonl`, `2026-10-02_1251_A40_n-62-18-4.jsonl`, `2026-10-02_1310_A40_n-62-18-4.jsonl`, `2026-10-02_1344_A40_n-62-18-4.jsonl`, `2026-10-02_1420_A40_n-62-18-4.jsonl`, `2026-10-02_1503_A40_n-62-18-4.jsonl`, `2026-10-02_1530_A40_n-62-18-4.jsonl`, `2026-10-02_1607_A40_n-62-18-4.jsonl`, `2026-10-02_1637_A40_n-62-18-4.jsonl`, `2026-10-02_1722_A40_n-62-18-4.jsonl`, `2026-10-02_1759_A40_n-62-18-4.jsonl`
+Results files: `2026-10-02_1026_A40_n-62-18-4.jsonl`, `2026-10-02_1251_A40_n-62-18-4.jsonl`, `2026-10-02_1310_A40_n-62-18-4.jsonl`, `2026-10-02_1344_A40_n-62-18-4.jsonl`, `2026-10-02_1420_A40_n-62-18-4.jsonl`, `2026-10-02_1503_A40_n-62-18-4.jsonl`, `2026-10-02_1530_A40_n-62-18-4.jsonl`, `2026-10-02_1607_A40_n-62-18-4.jsonl`, `2026-10-02_1637_A40_n-62-18-4.jsonl`, `2026-10-02_1722_A40_n-62-18-4.jsonl`, `2026-10-02_1759_A40_n-62-18-4.jsonl`, `2026-10-02_1844_A40_n-62-18-4.jsonl`, `2026-10-02_1913_A40_n-62-18-4.jsonl`, `2026-10-02_1922_A40_n-62-18-4.jsonl`
